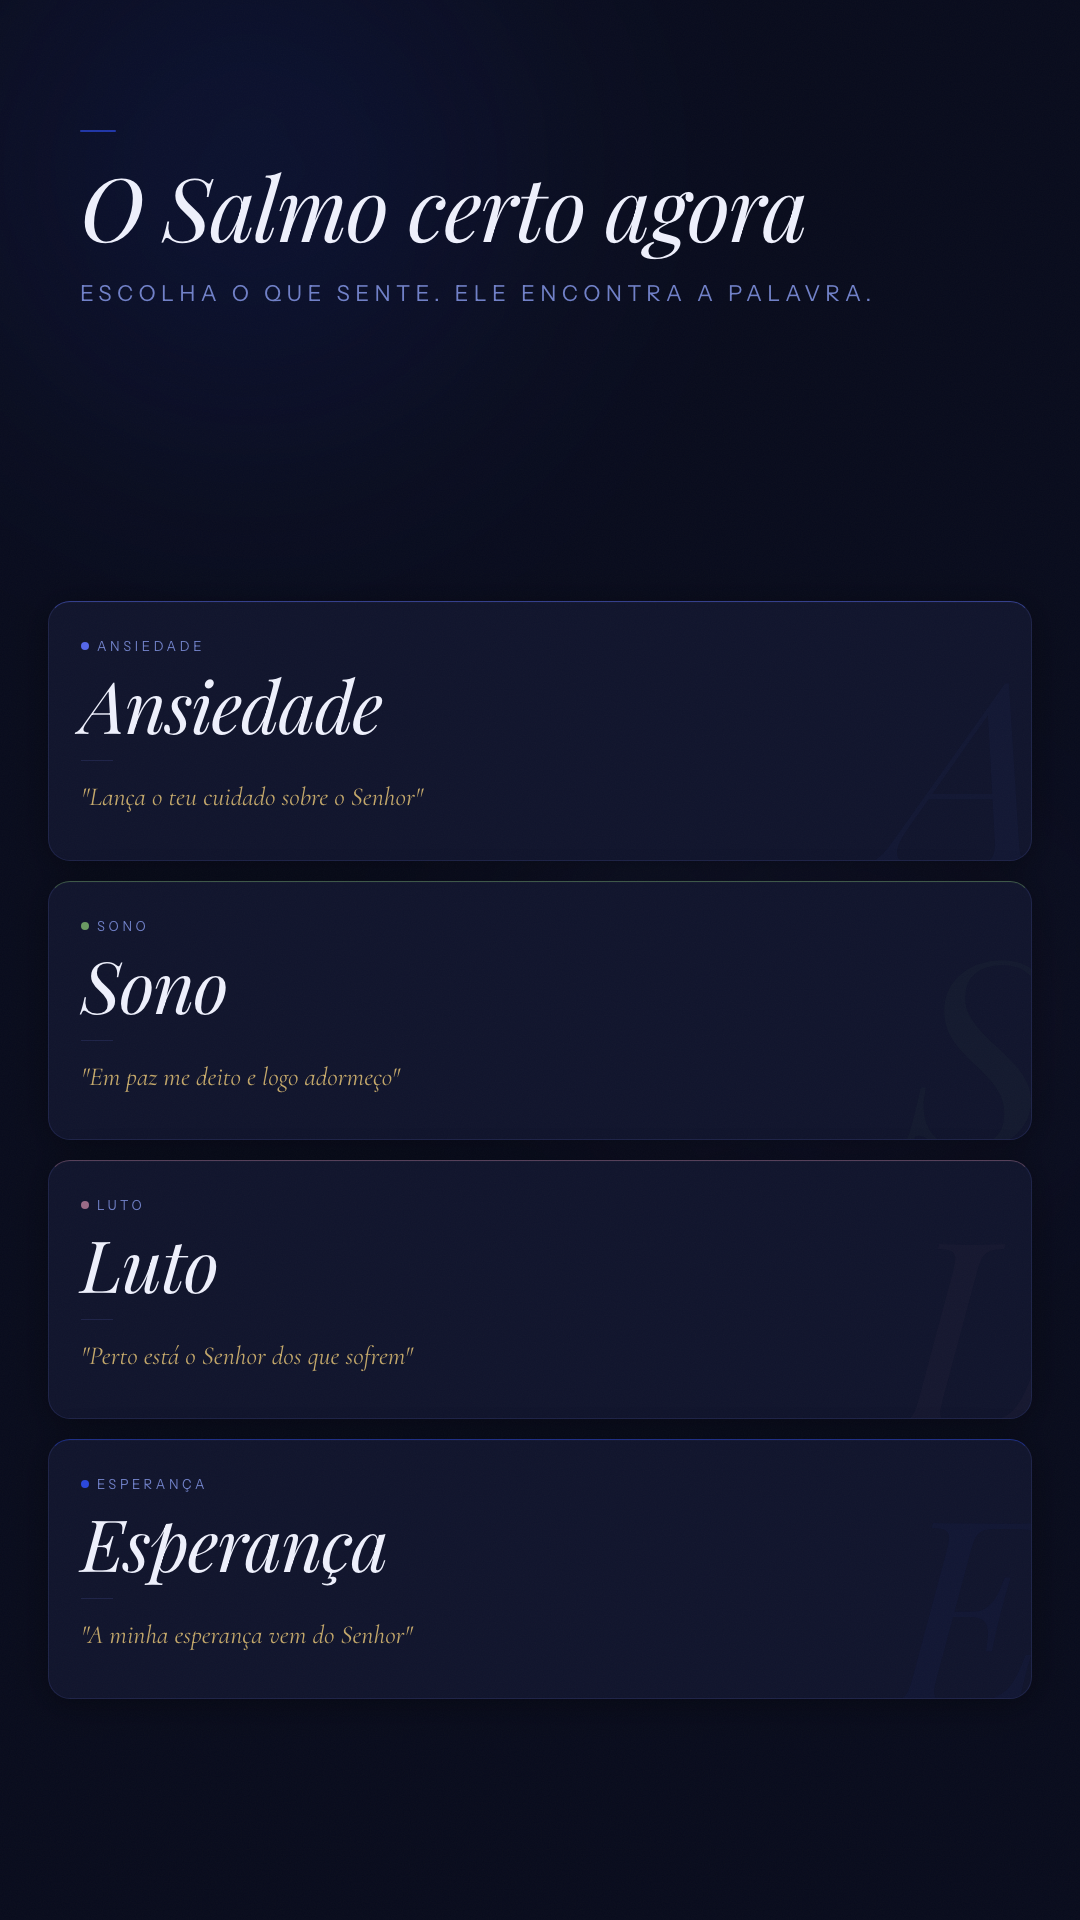
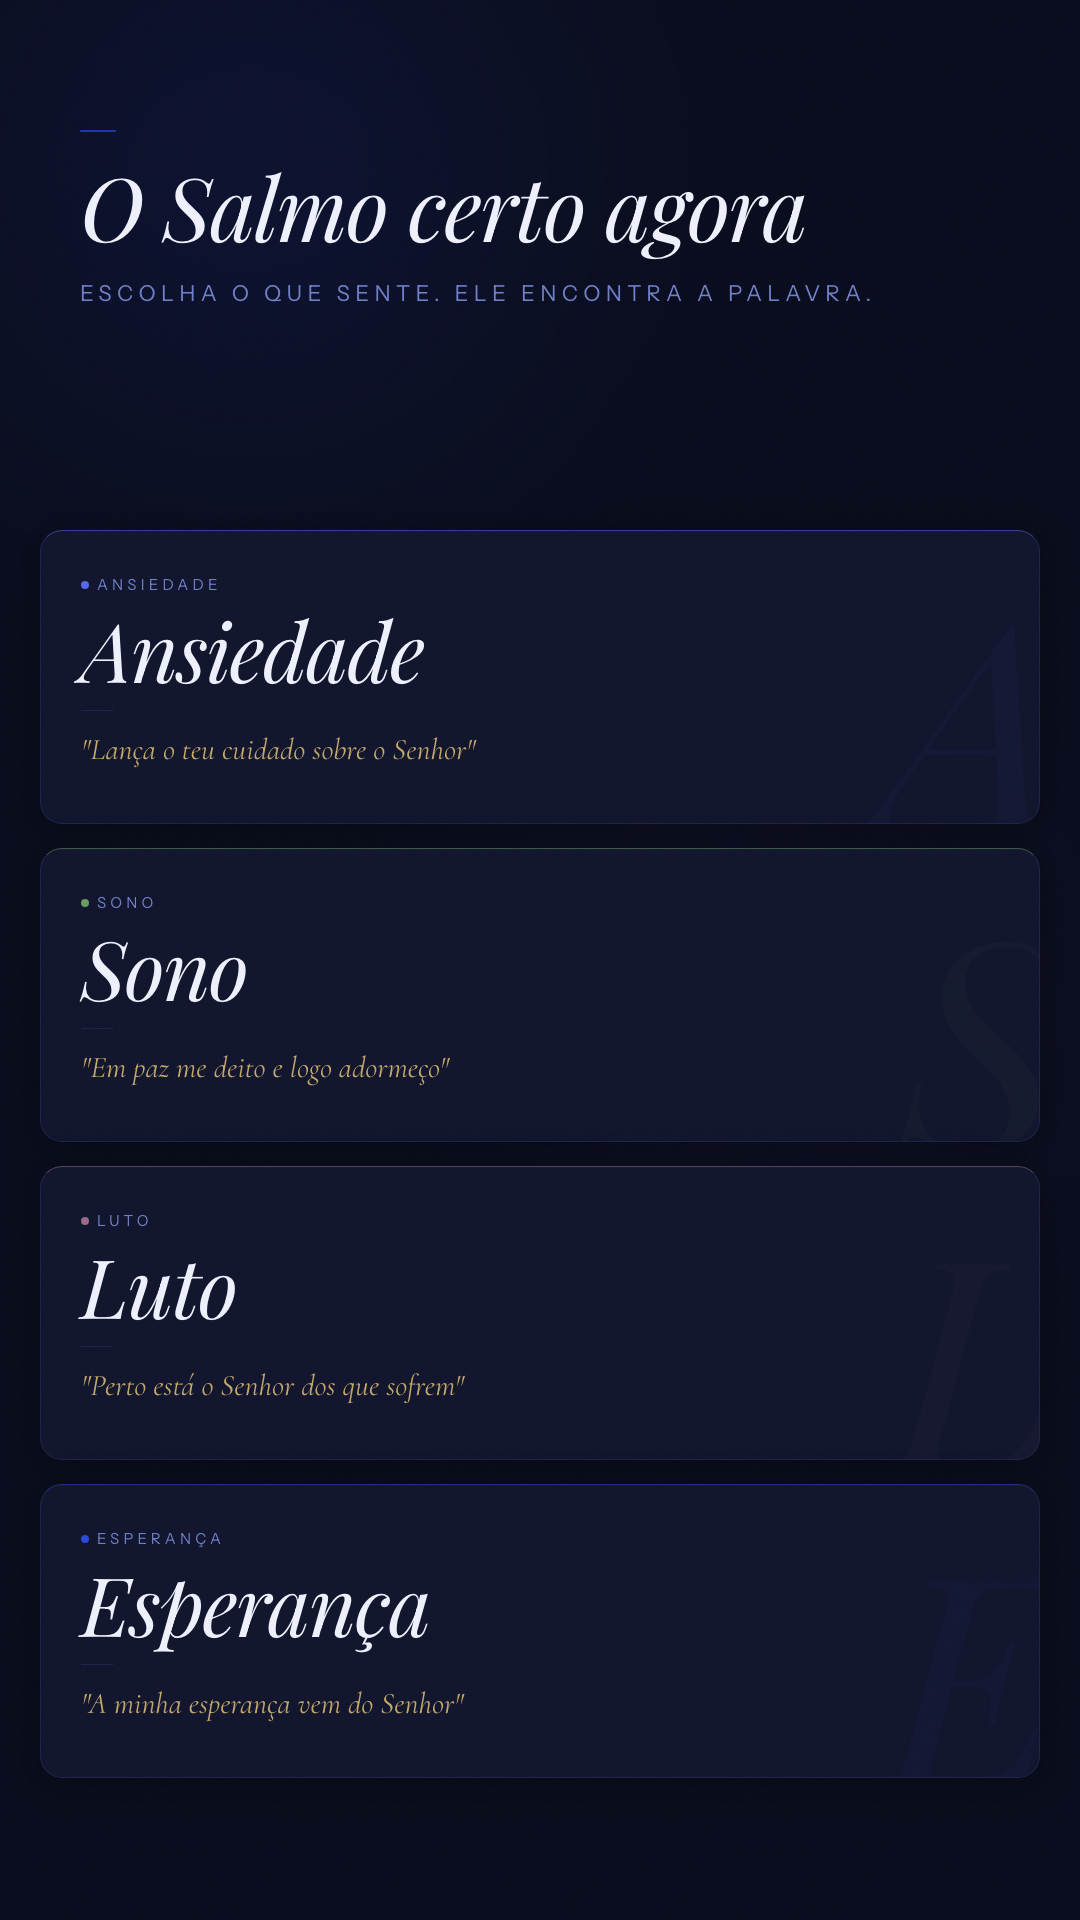
fix(loja): ajusta composição de s1 e s7
- s1: cards maiores (nome 82px, versículo 30px, padding e gap
  ampliados) para leitura melhor na miniatura da loja
- s7: captura deslocada para centralizar o círculo de respiração
  no espaço acima do overlay; botão de fechar sai do quadro

diff --git a/play-store/screenshots/final/s1-colecoes.html b/play-store/screenshots/final/s1-colecoes.html
@@ -164,8 +164,8 @@
       flex: 1;
       display: grid;
       grid-template-columns: 1fr;
-      gap: 20px;
-      padding: 0 48px 80px;
+      gap: 24px;
+      padding: 0 40px 72px;
       align-content: center;
     }
 
@@ -174,7 +174,7 @@
       background: var(--night-plus);
       border: .5px solid var(--night-line);
       border-radius: 22px;
-      padding: 36px 32px 44px;
+      padding: 44px 40px 52px;
       box-shadow:
         0 4px 32px rgba(0,0,0,.4),
         0 1px 0 rgba(255,255,255,.02) inset;
@@ -192,7 +192,7 @@
       font-family: 'Playfair Display', Georgia, serif;
       font-style: italic;
       font-weight: 400;
-      font-size: 260px;
+      font-size: 290px;
       line-height: 1;
       letter-spacing: -.02em;
       pointer-events: none;
@@ -227,7 +227,7 @@
 
     .emotion-label {
       font-family: 'Instrument Sans', system-ui, sans-serif;
-      font-size: 13px;
+      font-size: 15px;
       font-weight: 400;
       letter-spacing: .28em;
       text-transform: uppercase;
@@ -239,7 +239,7 @@
       font-family: 'Playfair Display', Georgia, serif;
       font-style: italic;
       font-weight: 400;
-      font-size: 72px;
+      font-size: 82px;
       line-height: 1.0;
       color: var(--night-cream);
       letter-spacing: -.02em;
@@ -259,7 +259,7 @@
       font-family: 'Cormorant', Georgia, serif;
       font-style: italic;
       font-weight: 400;
-      font-size: 26px;
+      font-size: 30px;
       line-height: 1.4;
       color: var(--gold);
       overflow: hidden;

diff --git a/play-store/screenshots/final/s7-respirar.html b/play-store/screenshots/final/s7-respirar.html
@@ -120,7 +120,9 @@
       width: 100%;
       height: 100%;
       object-fit: cover;
-      object-position: top center;
+      /* desloca a captura para cima: círculo centralizado no espaço útil,
+         botão de fechar do app sai do quadro */
+      object-position: center -430px;
       display: block;
     }
 
